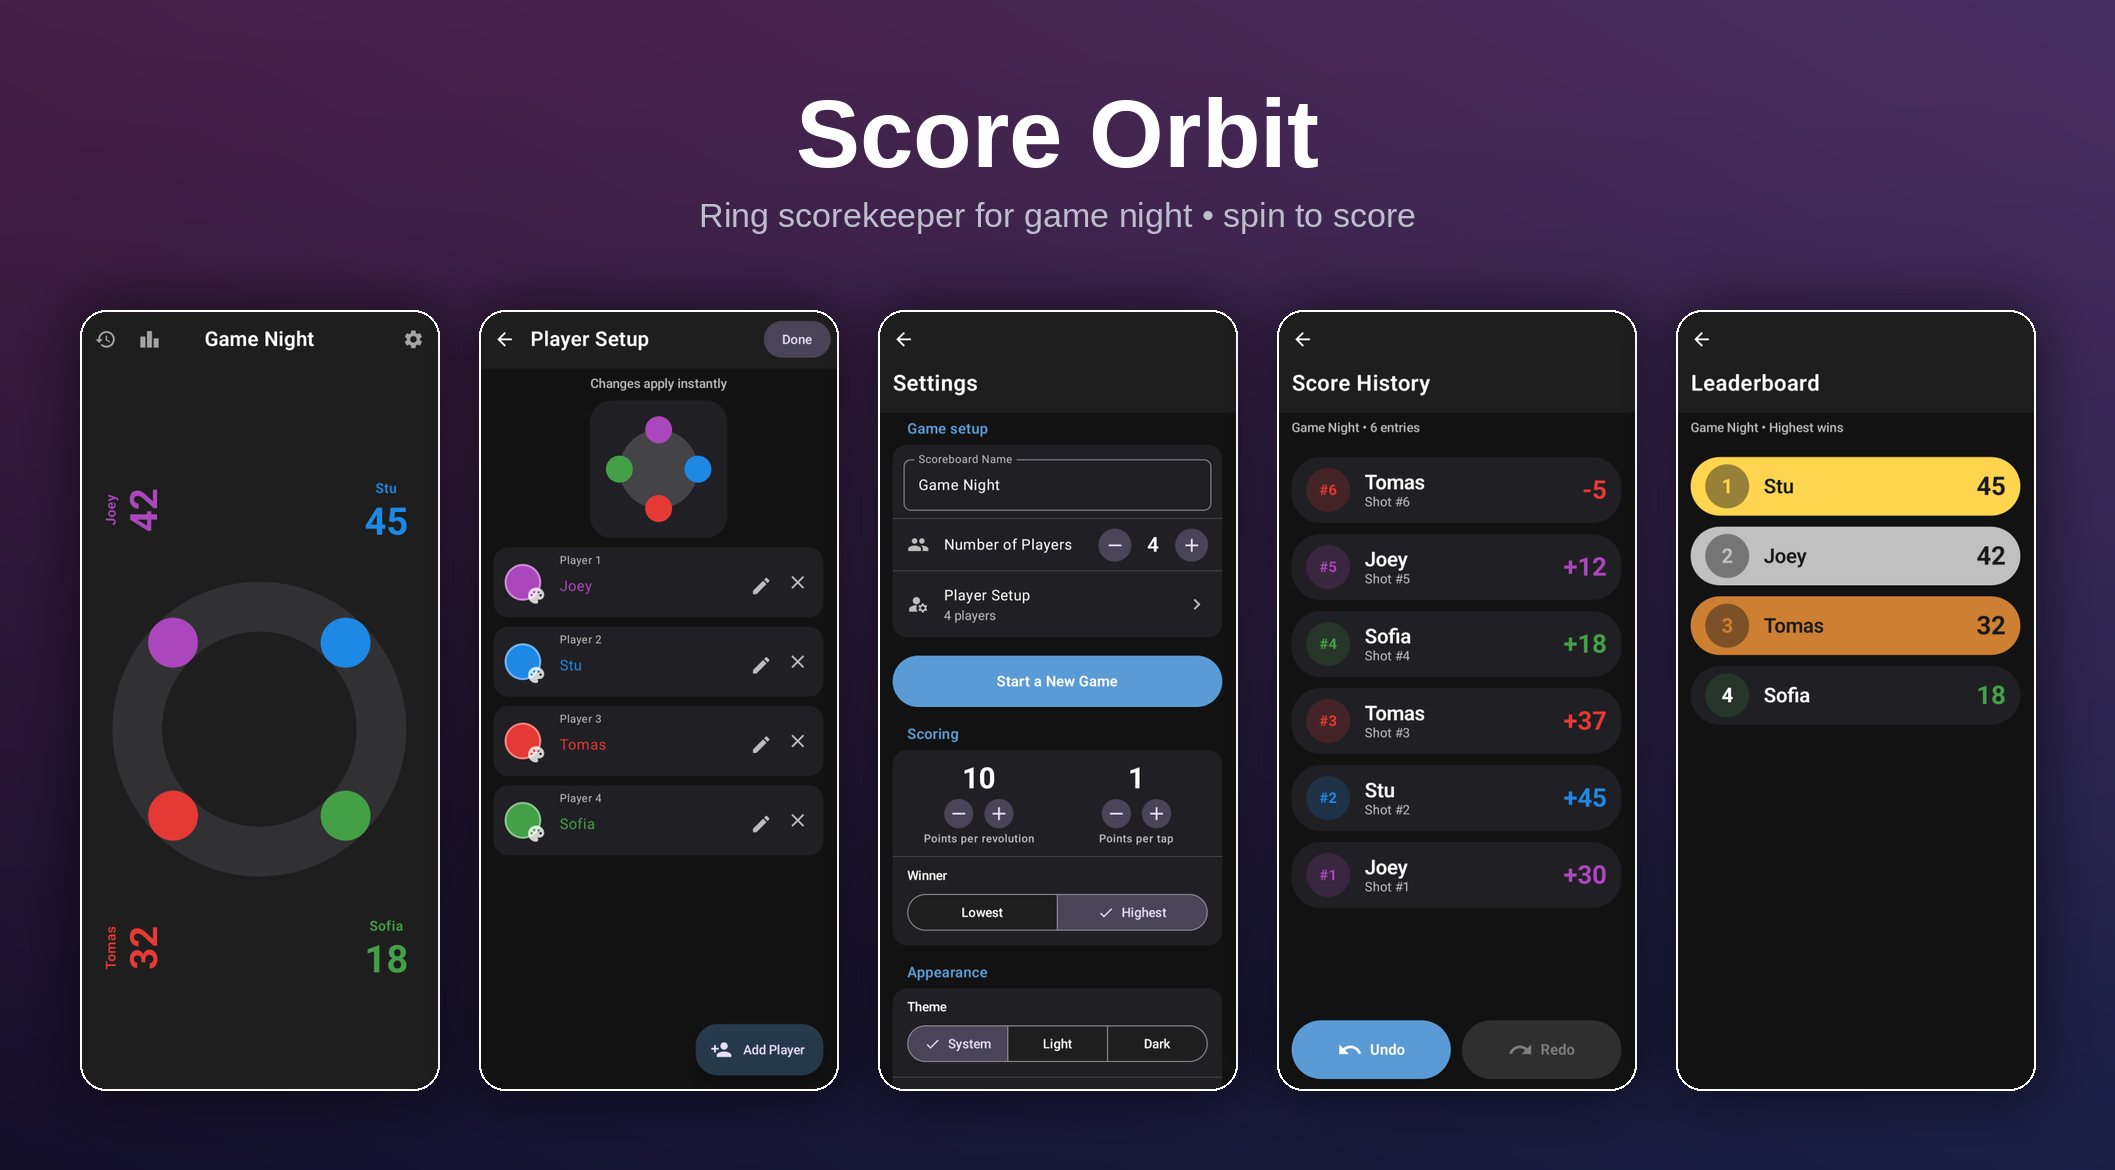
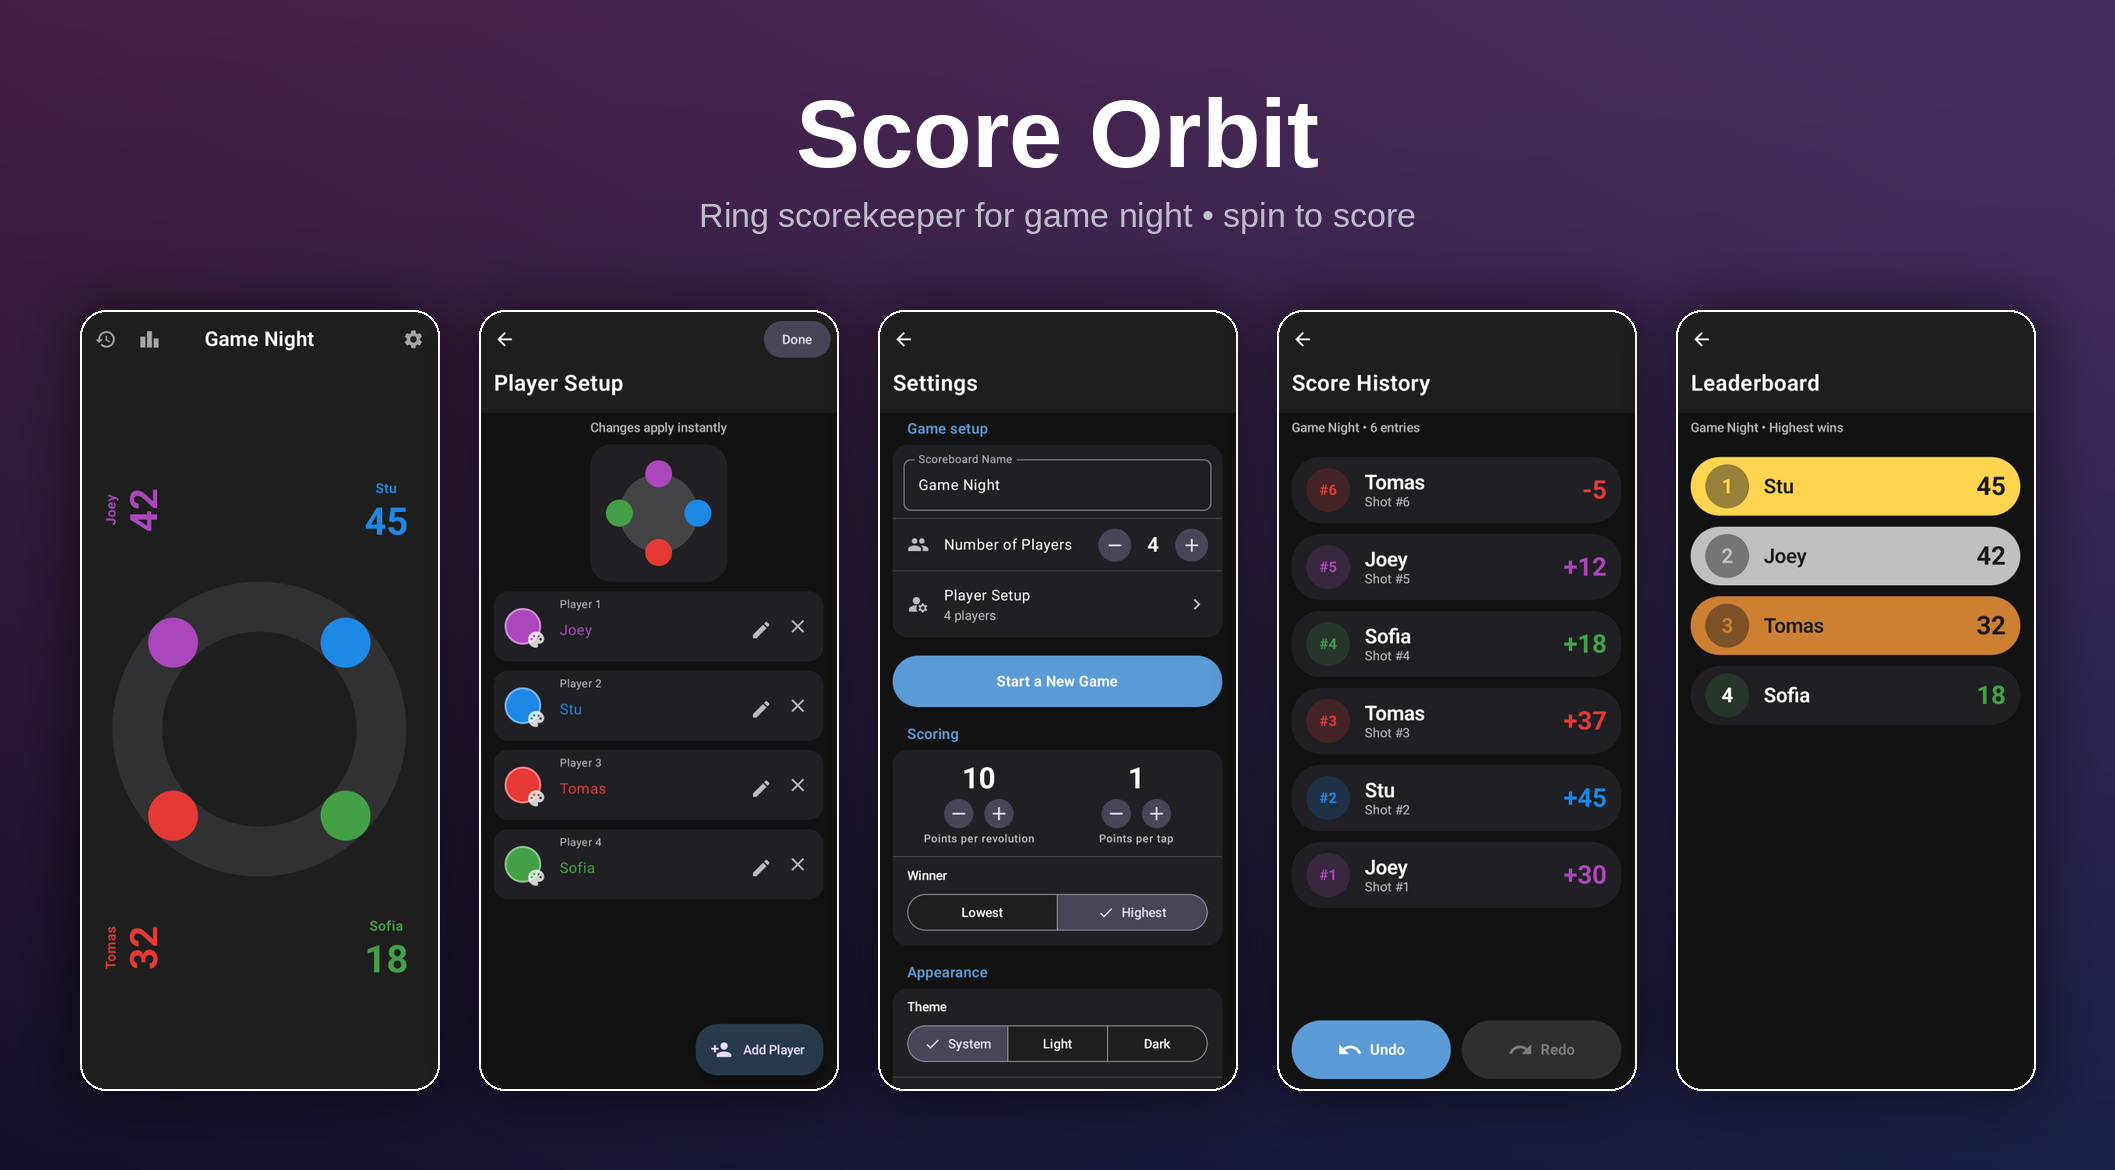
Player Setup uses shared medium header; professional README rewrite

Changed region(s): [[0.2184, 0.2769, 0.3433, 0.7692]]

diff --git a/app/src/main/java/com/scoreorbit/android/ui/SettingsScreens.kt b/app/src/main/java/com/scoreorbit/android/ui/SettingsScreens.kt
@@ -571,13 +571,11 @@ fun PlayerSetupScreen(game: Game, viewModel: ScoreViewModel) {
         modifier = Modifier.nestedScroll(scrollBehavior.nestedScrollConnection),
         containerColor = MaterialTheme.colorScheme.background,
         topBar = {
-            TopAppBar(
-                title = { Text("Player Setup") },
-                navigationIcon = {
-                    IconButton(onClick = { viewModel.go(AppScreen.Settings) }) {
-                        Icon(Icons.AutoMirrored.Filled.ArrowBack, contentDescription = "Back")
-                    }
-                },
+            SharedTopAppBar(
+                title = "Player Setup",
+                viewModel = viewModel,
+                scrollBehavior = scrollBehavior,
+                backDestination = AppScreen.Settings,
                 actions = {
                     // Explicit confirmation path: everything already saves
                     // as you type, so Done just steps back to Settings.
@@ -589,7 +587,6 @@ fun PlayerSetupScreen(game: Game, viewModel: ScoreViewModel) {
                     }
                     Spacer(modifier = Modifier.width(4.dp))
                 },
-                scrollBehavior = scrollBehavior,
             )
         },
         floatingActionButton = {

diff --git a/app/src/main/java/com/scoreorbit/android/ui/HistoryScreens.kt b/app/src/main/java/com/scoreorbit/android/ui/HistoryScreens.kt
@@ -214,6 +214,8 @@ internal fun SharedTopAppBar(
     title: String,
     viewModel: ScoreViewModel,
     scrollBehavior: androidx.compose.material3.TopAppBarScrollBehavior,
+    backDestination: AppScreen = AppScreen.Board,
+    actions: @Composable androidx.compose.foundation.layout.RowScope.() -> Unit = {},
 ) {
     MediumTopAppBar(
         title = {
@@ -224,10 +226,11 @@ internal fun SharedTopAppBar(
             )
         },
         navigationIcon = {
-            IconButton(onClick = { viewModel.go(AppScreen.Board) }) {
+            IconButton(onClick = { viewModel.go(backDestination) }) {
                 Icon(Icons.AutoMirrored.Filled.ArrowBack, contentDescription = "Back")
             }
         },
+        actions = actions,
         scrollBehavior = scrollBehavior,
     )
 }

diff --git a/README.md b/README.md
@@ -1,10 +1,16 @@
 # Score Orbit
 
-Score keeping app inspired by the Score Anything app on iOS, but for Android.
+A scorekeeper for game night on Android, inspired by the Score Anything app on iOS.
+
+The problem it solves is a familiar one: keeping score on paper means hunting for a pen, doing arithmetic between turns, and squinting at someone's handwriting. Score Orbit puts every player on a shared dial. To score, you drag around the ring the way you'd dial an old rotary phone — a full turn adds your configured points, and letting go snaps the dial back with a spring. Tapping a dot scores a smaller quick amount instead, and tapping a score rotates it so the player across the table can read it.
 
 ![Score Orbit screens](docs/shots/showcase.png)
 
-## Screens
+## How a game goes
+
+You set up 1–12 players with names and colors, choose how many points a full revolution and a tap are worth, and whether the highest or lowest score wins. Then you just play — the board stays on the table and anyone can reach over and dial in their own points.
+
+Scores land in a running ledger with undo and redo, so mis-taps are one button press to fix. When the game ends, the leaderboard ranks everyone with medal highlights for the top three.
 
 <p align="center">
   <img src="docs/shots/board.png" width="220" alt="The ring">
@@ -15,6 +21,12 @@ Score keeping app inspired by the Score Anything app on iOS, but for Android.
   <img src="docs/shots/history.png" width="220" alt="Score history">
   <img src="docs/shots/leaderboard.png" width="220" alt="Leaderboard">
 </p>
+
+## Details worth knowing
+
+- **Tabletop-first layout.** Scores sit outside the ring facing their seat, and each dial dot parks near its own score. The board adapts from a full grid at 12 players down to a single dial.
+- **Adaptive everything.** Follows the system light/dark theme (or override it), picks up Material You dynamic colors on Android 12+, and haptic feedback with adjustable strength.
+- **Built with Material 3 Expressive** components throughout: collapsing app bars, tonal buttons, segmented controls, and spring physics on the dial itself.
 
 ## Build
 
